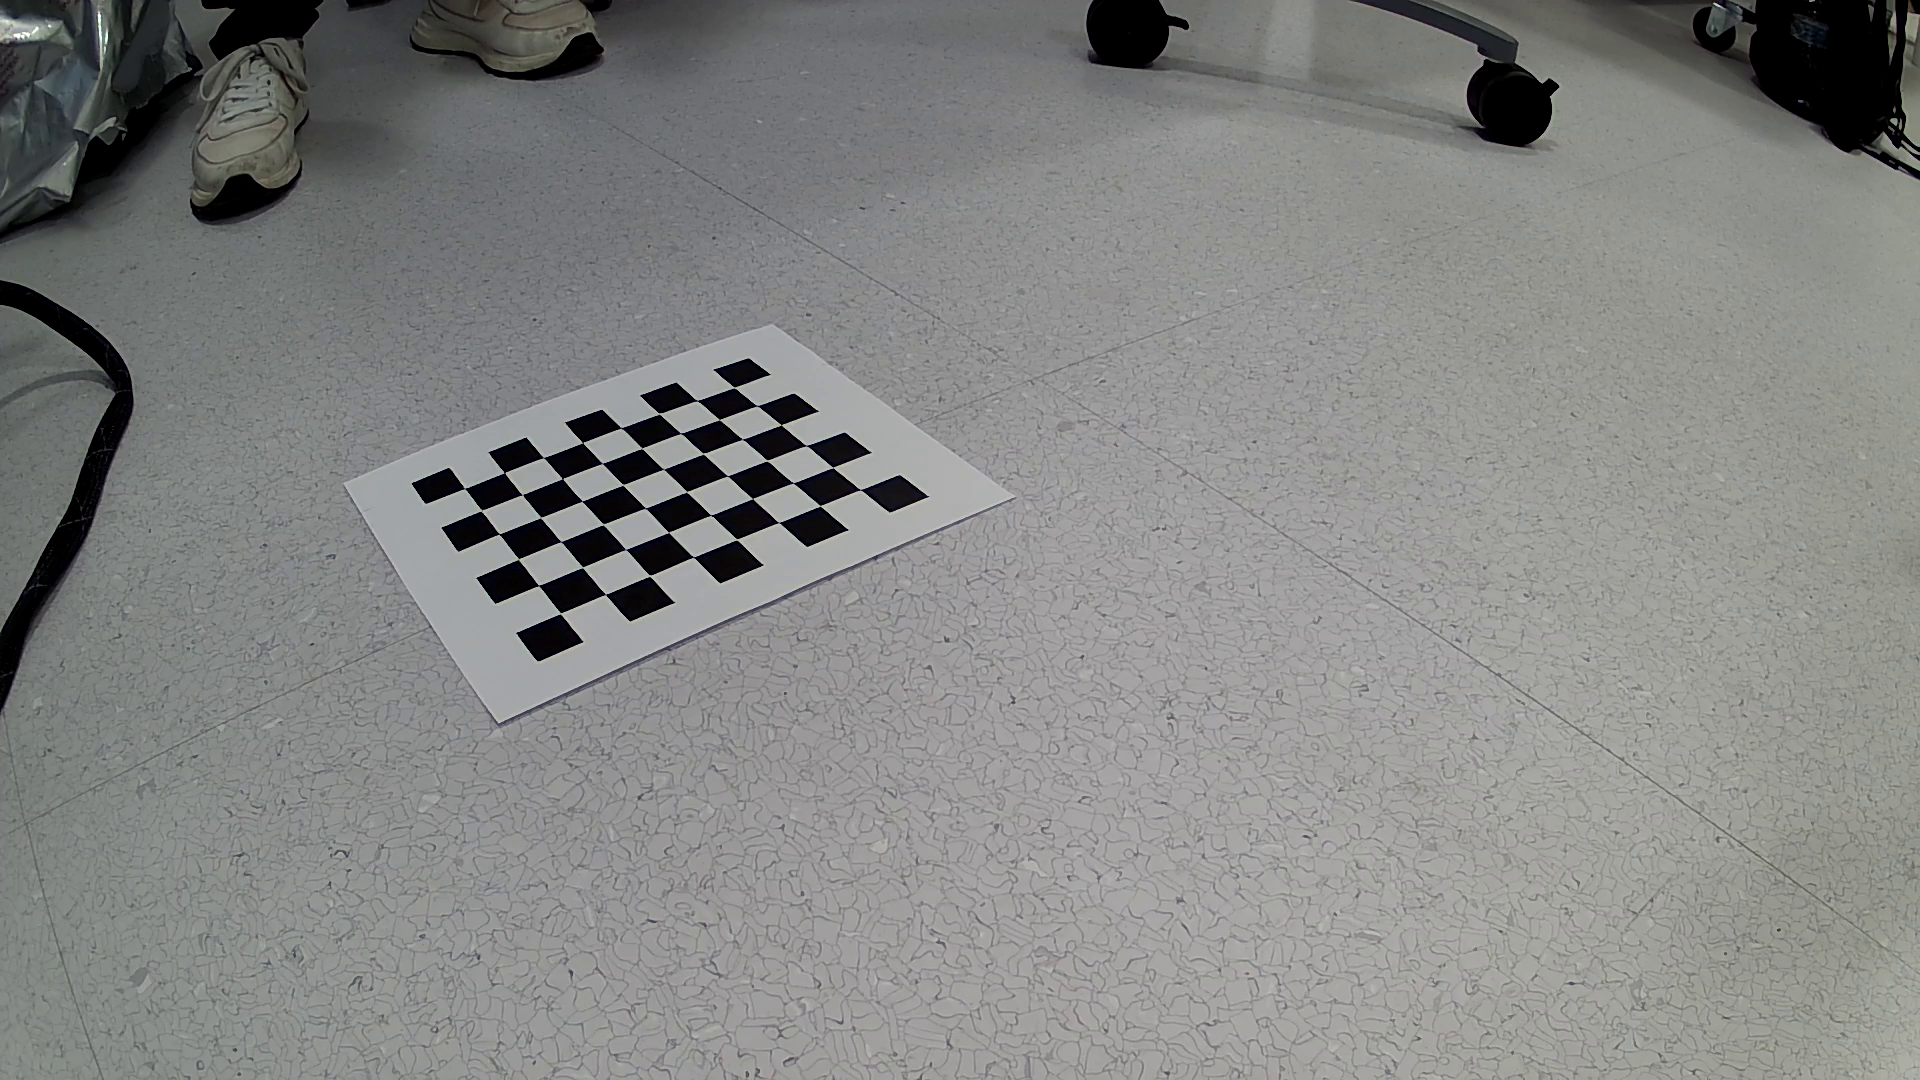
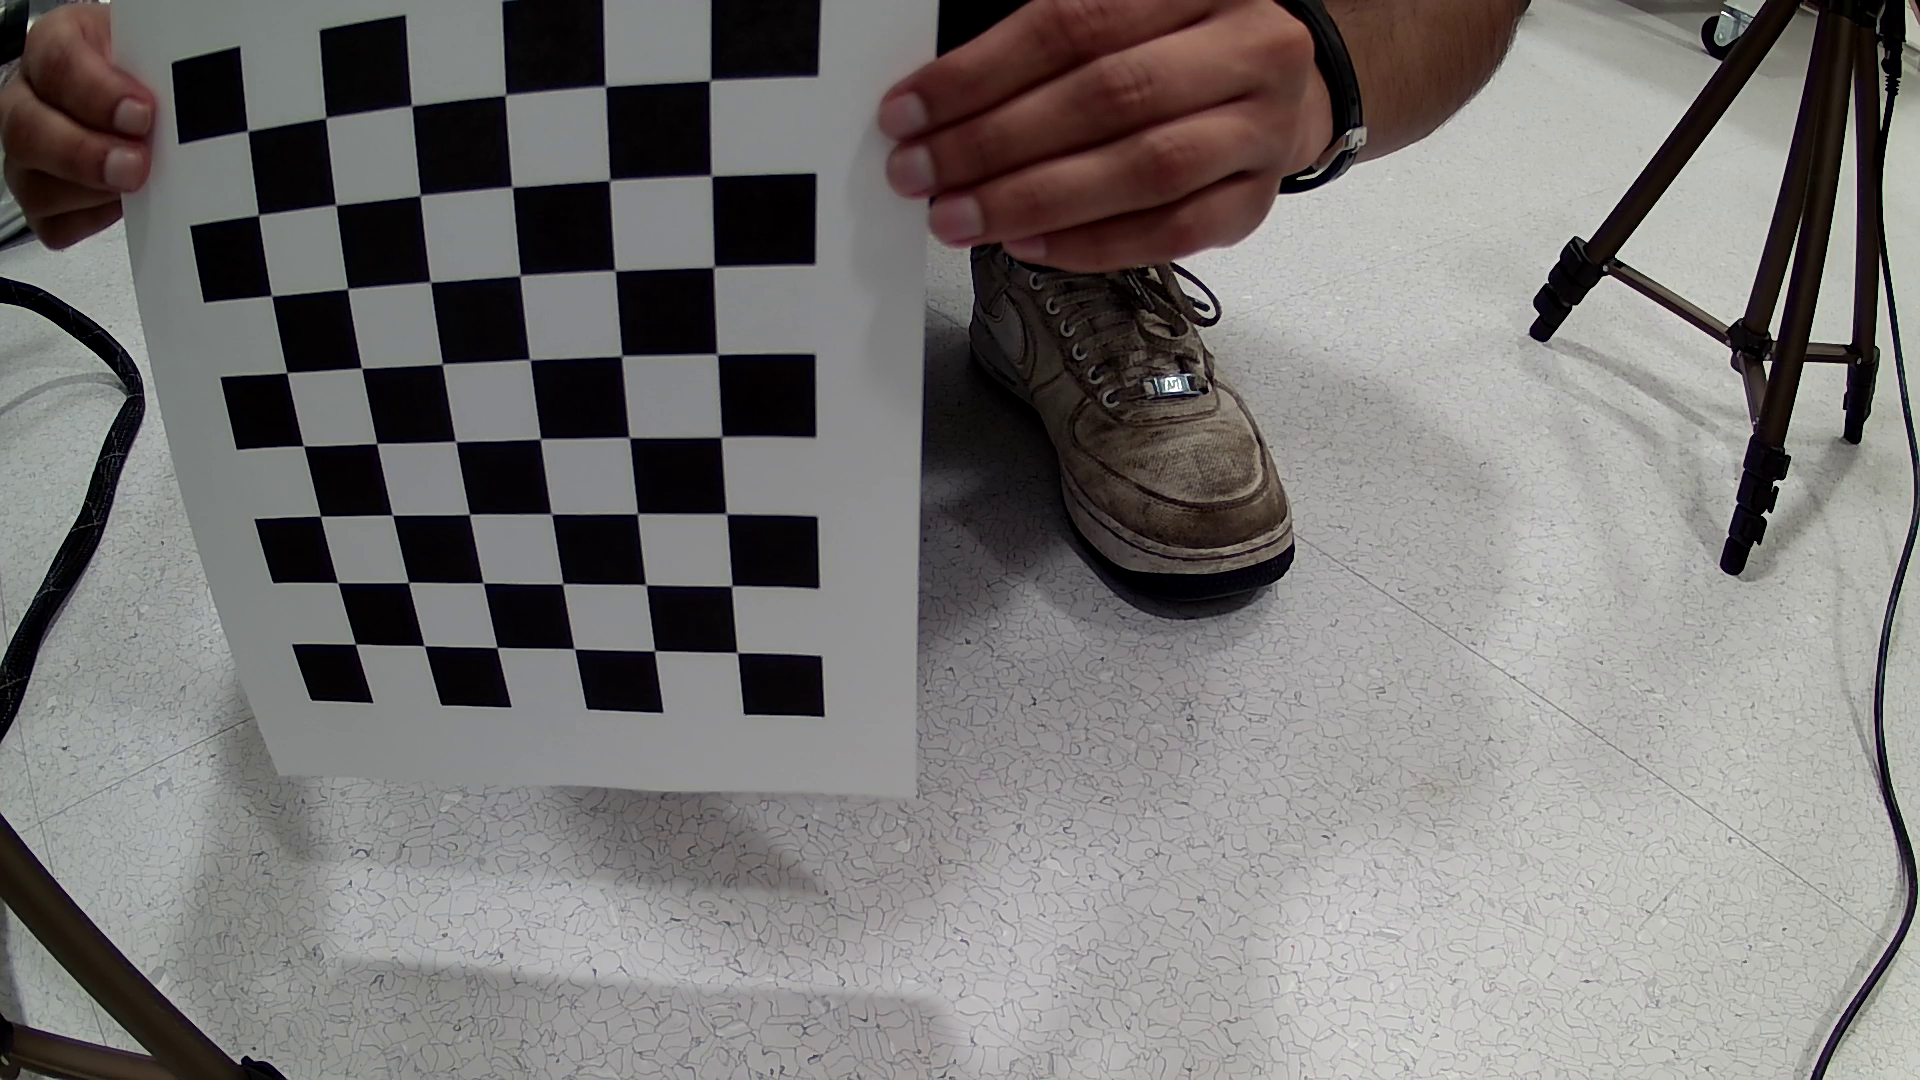
New Pose Detection

diff --git a/calibrateCamera.py b/calibrateCamera.py
@@ -2,6 +2,7 @@ import numpy as np
 import cv2 as cv
 import glob
 import pickle
+from ultralytics import YOLO
 
 CHECKERBOARD = (6,8)
 frameSize = (1920,1080)
@@ -40,19 +41,81 @@ ret, camera_matrix, dist, rvecs, tvecs = cv.calibrateCamera(objpoints, imgpoints
 pickle.dump((camera_matrix, dist), open("calibration.pk1", "wb"))
 pickle.dump(camera_matrix, open("camera_matrix.pk1", "wb"))
 pickle.dump(dist, open("dist.pk1", "wb"))
+print(ret)
+#calculate projectionMatrix
+R = cv.Rodrigues(rvecs[0])[0]
+t = tvecs[0]
+Rt = np.concatenate([R,t], axis=-1) # [R|t]
+P1 = np.matmul(camera_matrix,Rt) # A[R|t]
+print(P1)
 
-img = cv.imread('images/img1.png')
-h, w = img.shape[:2]
-newcameramtx, roi = cv.getOptimalNewCameraMatrix(camera_matrix, dist, (w,h), 1, (w,h))
+objpoints = []
+imgpoints = []
 
-dst = cv.undistort(img, camera_matrix, dist)
+images = glob.glob('imagesCam2/*.png')
 
-cv.imwrite('calibresult.png', dst)
+for fname in images:
+    print(fname)
+    img = cv.imread(fname)
+    
+    gray = cv.cvtColor(img, cv.COLOR_BGR2GRAY)
 
-mean_error = 0
-for i in range(len(objpoints)):
-    imgpoints2, _ = cv.projectPoints(objpoints[i], rvecs[i], tvecs[i], camera_matrix, dist)
-    error = cv.norm(imgpoints[i], imgpoints2, cv.NORM_L2)/len(imgpoints2)
-    mean_error += error
+    ret, corners = cv.findChessboardCorners(gray, CHECKERBOARD, None)
+    if ret == True:
+        objpoints.append(objp)
+        corners2 = cv.cornerSubPix(gray, corners, (11,11), (-1,-1), criteria)
+        imgpoints.append(corners)
+        cv.drawChessboardCorners(img, CHECKERBOARD, corners2, ret)
+        cv.imshow('img', img)
+        cv.waitKey(500)
 
-print("total error: {}".format(mean_error/len(objpoints)))
+print(imgpoints)
+print(objpoints)
+cv.destroyAllWindows()
+
+ret, camera_matrix, dist, rvecs, tvecs = cv.calibrateCamera(objpoints, imgpoints, frameSize, None, None)
+pickle.dump((camera_matrix, dist), open("calibration2.pk1", "wb"))
+pickle.dump(camera_matrix, open("camera_matrix2.pk1", "wb"))
+pickle.dump(dist, open("dist2.pk1", "wb"))
+print(ret)
+#calculate projectionMatrix
+R = cv.Rodrigues(rvecs[0])[0]
+t = tvecs[0]
+Rt = np.concatenate([R,t], axis=-1) # [R|t]
+P2 = np.matmul(camera_matrix,Rt) # A[R|t]
+print(P2)
+
+#triagulate points
+model = YOLO('yolov8n-pose.pt')  # load an official model
+model2 = YOLO('yolov8n-pose.pt')
+#model = YOLO('path/to/best.pt')  # load a custom model
+source = 'rtsp://192.168.1.186:554/stream/main'
+source2 = 'rtsp://192.168.1.185:554/stream/main'
+
+results = model.predict(source, show=True, stream=True)  # predict on video
+results2 = model2.predict(source2, show = True, stream = True)
+
+#triangulate points
+cv.triangulatePoints(P1, P2, results.keypoints[0], results2.keypoints[0])
+
+#Use projectionMatrix to calculate 3D point
+# points_4d_hom = cv.triangulatePoints(P, P, imgpoints[0], imgpoints[1])
+# points_4d = points_4d_hom / np.tile(points_4d_hom[-1, :], (4, 1))
+# points_3d = points_4d[:3, :].T
+# print(points_3d)
+
+# img = cv.imread('imagesCam2/img10.png')
+# h, w = img.shape[:2]
+# newcameramtx, roi = cv.getOptimalNewCameraMatrix(camera_matrix, dist, (w,h), 1, (w,h))
+
+# dst = cv.undistort(img, camera_matrix, dist)
+
+# cv.imwrite('calibresult.png', dst)
+
+# mean_error = 0
+# for i in range(len(objpoints)):
+#     imgpoints2, _ = cv.projectPoints(objpoints[i], rvecs[i], tvecs[i], camera_matrix, dist)
+#     error = cv.norm(imgpoints[i], imgpoints2, cv.NORM_L2)/len(imgpoints2)
+#     mean_error += error
+
+# print("total error: {}".format(mean_error/len(objpoints)))

diff --git a/PoseDetection.py b/PoseDetection.py
@@ -16,22 +16,24 @@ source2 = 'rtsp://192.168.1.185:554/stream/main'
 results = model.predict(source, show=True, stream=True)  # predict on video
 results2 = model2.predict(source2, show = True, stream = True)
 
-camera_matrix1 = np.array([[fx1, 0, cx1], [0, fy1, cy1], [0, 0, 1]])
-camera_matrix2 = np.array([[fx2, 0, cx2], [0, fy2, cy2], [0, 0, 1]])
+print(results.keypoints)
+print(results2.keypoints)
+# camera_matrix1 = np.array([[fx1, 0, cx1], [0, fy1, cy1], [0, 0, 1]])
+# camera_matrix2 = np.array([[fx2, 0, cx2], [0, fy2, cy2], [0, 0, 1]])
 
 
-for r, r2 in zip(results, results2):
-    # Get the center point of the bounding box from both models
-    center_point1 = [r.boxes[0] + r.boxes[2] / 2, r.boxes[1] + r.boxes[3] / 2]
-    center_point2 = [r2.boxes[0] + r2.boxes[2] / 2, r2.boxes[1] + r2.boxes[3] / 2]
+# for r, r2 in zip(results, results2):
+#     # Get the center point of the bounding box from both models
+#     center_point1 = [r.boxes[0] + r.boxes[2] / 2, r.boxes[1] + r.boxes[3] / 2]
+#     center_point2 = [r2.boxes[0] + r2.boxes[2] / 2, r2.boxes[1] + r2.boxes[3] / 2]
 
-    # Project the 2D points back to 3D space
-    points1 = cv.undistortPoints(np.array([center_point1]), camera_matrix1, dist_coeffs1)
-    points2 = cv.undistortPoints(np.array([center_point2]), camera_matrix2, dist_coeffs2)
+#     # Project the 2D points back to 3D space
+#     points1 = cv.undistortPoints(np.array([center_point1]), camera_matrix1, dist_coeffs1)
+#     points2 = cv.undistortPoints(np.array([center_point2]), camera_matrix2, dist_coeffs2)
 
-    # Triangulate the points to find the 3D location
-    point_4d_hom = cv.triangulatePoints(projMatr1, projMatr2, points1, points2)
-    point_4d = point_4d_hom / np.tile(point_4d_hom[-1, :], (4, 1))
-    point_3d = point_4d[:3, :].T
+#     # Triangulate the points to find the 3D location
+#     point_4d_hom = cv.triangulatePoints(projMatr1, projMatr2, points1, points2)
+#     point_4d = point_4d_hom / np.tile(point_4d_hom[-1, :], (4, 1))
+#     point_3d = point_4d[:3, :].T
 
-    print(point_3d)
+#     print(point_3d)

diff --git a/getImages.py b/getImages.py
@@ -1,22 +1,23 @@
 import cv2
 cam = cv2.VideoCapture('rtsp://192.168.1.185:554/stream/main')
+cam2 = cv2.VideoCapture('rtsp://192.168.1.186:554/stream/main')
 
 num = 0
 
 while cam.isOpened():
 
     succes, img = cam.read()
-
+    
     k = cv2.waitKey(5)
 
     if k == 27:
         break
     elif k == ord('s'): # wait for 's' key to save and exit
-        cv2.imwrite('images/img' + str(num) + '.png', img)
+        cv2.imwrite('synchedImages/img' + str(num) + '.png', img)
         print("image saved!")
-        num += 1
+        
 
-    cv2.imshow('Img',img)
+        
 
 # Release and destroy all windows before termination
 cam.release()
